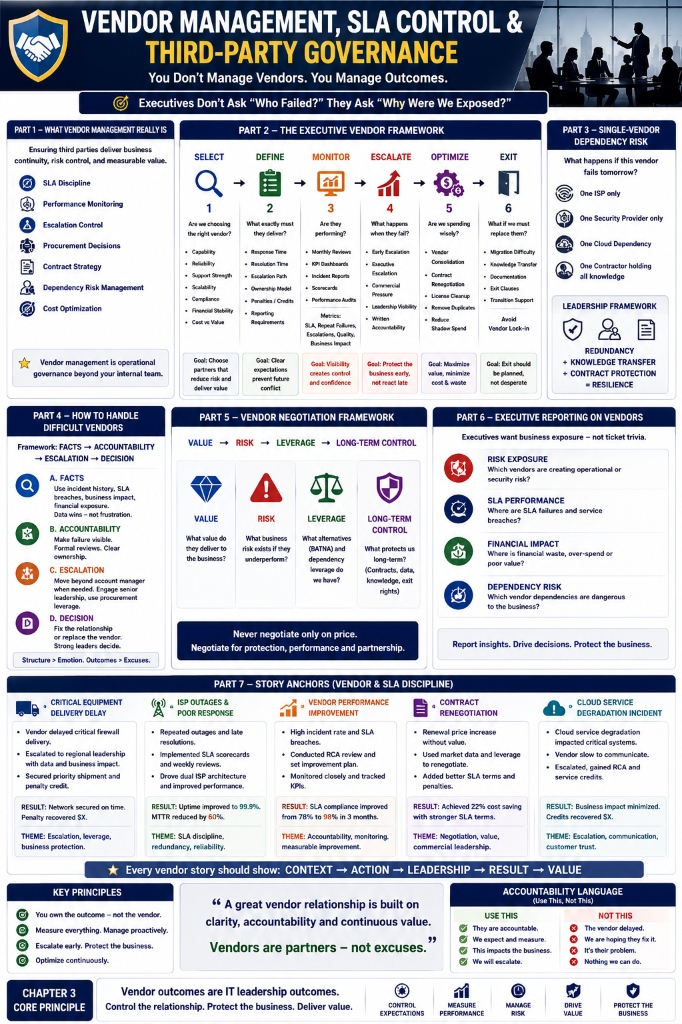
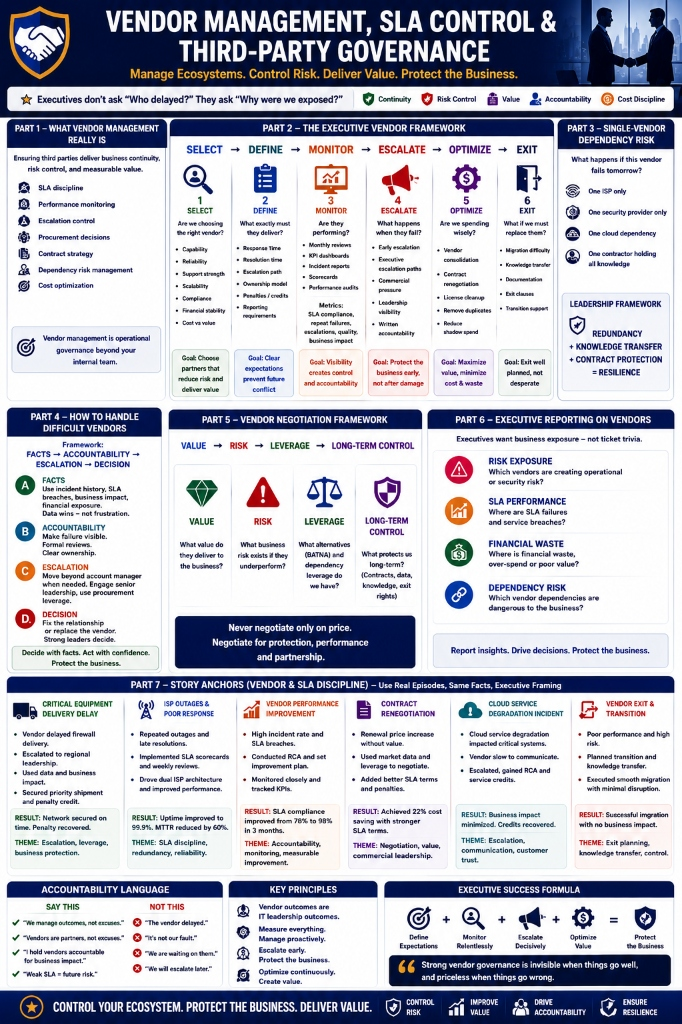
feat(operations): update Vendor Governance playbook & embed BCP/DR in Chapter 4 and Visual Syllabus

diff --git a/app/visual-syllabus/page.tsx b/app/visual-syllabus/page.tsx
@@ -306,6 +306,36 @@ const visualChapters = [
       "Failing to optimize license hygiene and shadow spend, leading to massive financial duplication"
     ],
     metrics: ["Vendor SLA Compliance %", "Vendor Consolidated Savings", "Contract Renewal Success Rate", "Shadow IT Spend %"]
+  },
+  {
+    chapterNumber: "CHAPTER 11",
+    title: "Business Continuity, Disaster Recovery & Crisis Leadership",
+    eyebrow: "Book 1 · Section D · Operations & Service Delivery Foundations",
+    imageSrc: "/executive-bcp-dr.jpg",
+    imageAlt: "Business Continuity, Disaster Recovery (BCP/DR) & Crisis Leadership (Prepare, Protect, Respond, Recover, Learn)",
+    readHref: "/knowledge/operations/chapter-4-bcp-dr-crisis-leadership",
+    description:
+      "What happens when everything goes wrong? Learn to lead through core outages, security incidents, and vendor collapse. Master the 3-2-1 backup strategy, justify critical resilience investments, and protect business continuity.",
+    principles: [
+      {
+        label: "Prepare for Failure",
+        value: "Resilience is not avoiding failure—it is preparing, responding, and improving every time. Plan for worst-case scenarios cleanly: PREPARE → PROTECT → RESPOND → RECOVER → LEARN."
+      },
+      {
+        label: "RTO vs RPO Metrics",
+        value: "Govern data protection precisely: Recovery Time Objective (RTO) dictates how fast a service must return (time target), while Recovery Point Objective (RPO) dictates how much data loss is acceptable (data tolerance)."
+      },
+      {
+        label: "The 3-2-1 Backup Rule",
+        value: "Protect critical data using a bulletproof rule: maintain 3 copies of data (original + 2 backups) on 2 different storage types (e.g. disk + cloud) with at least 1 copy offsite. Remember: a backup is useless if restore is untested."
+      }
+    ],
+    traps: [
+      "Confusing BCP (keeping business operating during a crisis) with DR (restoring systems afterward)",
+      "Maintaining tested backup schedules but failing to run fully isolated restore and failover simulations",
+      "Panicking or hiding information from executives and customers during outages instead of borrowing calm and communicating clearly"
+    ],
+    metrics: ["RTO Compliance %", "RPO Max Data Gap", "Restore Validation Rate %", "Simulated DR Table-Top NPS"]
   }
 ];
 

diff --git a/content/knowledge/operations/chapter-4-bcp-dr-crisis-leadership.md b/content/knowledge/operations/chapter-4-bcp-dr-crisis-leadership.md
@@ -30,6 +30,8 @@ This chapter is about **protecting the business when failure becomes real.**
 
 That is executive leadership.
 
+![Business Continuity, Disaster Recovery (BCP/DR) & Crisis Leadership](/executive-bcp-dr.jpg)
+
 ## PART 1 — BUSINESS CONTINUITY VS DISASTER RECOVERY
 
 This is one of the most common **senior interview traps**. You must answer it cleanly.